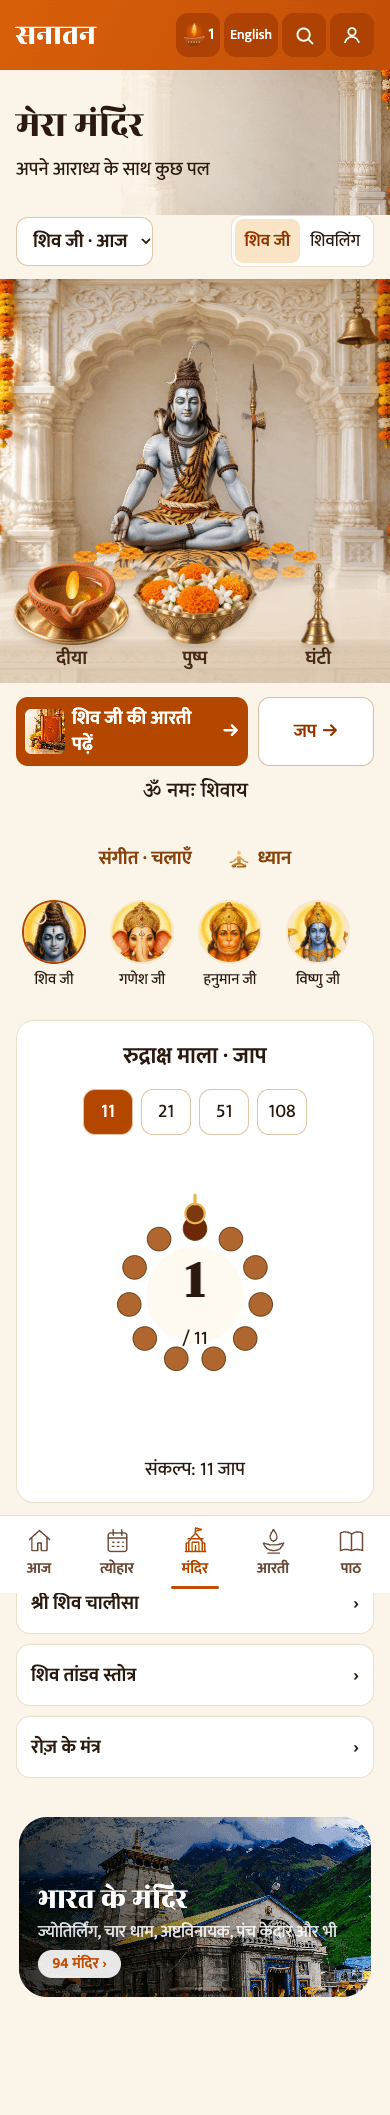
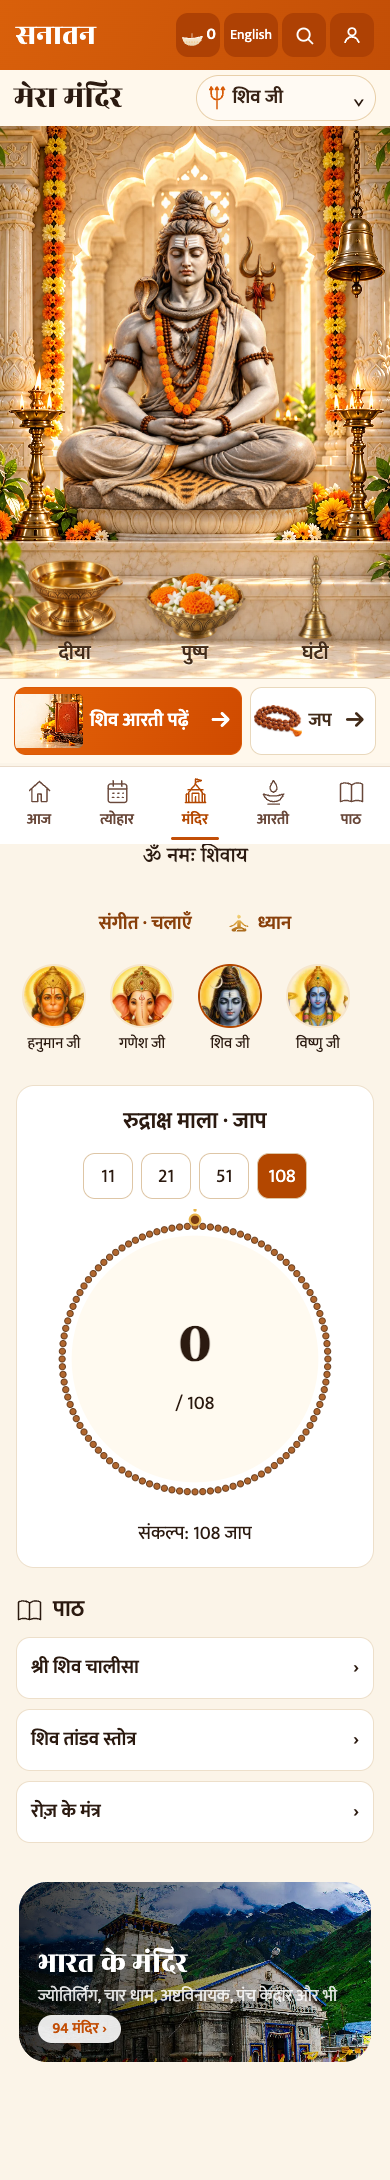
Refresh Mandir review screenshots after mockup correction

diff --git a/docs/redesign/pr-3/README.md b/docs/redesign/pr-3/README.md
@@ -13,3 +13,7 @@ Mandir follows option 5 with an ivory marble shrine and integrated, large labell
 - Religious content files and existing storage keys are unchanged. Existing missing weekday sets and Shivling placeholder remain listed in HANDOVER.md.
 
 Depends on PRs 1 and 2, in that order. Review into `app-source`; no deployment or hosting changes.
+
+## Mandir visual correction, 27 October
+
+The initial Mandir implementation did not match the selected option 5 closely enough. It has been corrected to use the compact title / picker row, uninterrupted sunlit lattice shrine, seated Shiva daily set, integrated offering ledge and photo-backed Aarti / Jap actions. Original deity data is preserved; only an optional Mandir image field is added. The previous attempt, chosen reference and corrected app are shown together in `../mandir-correction/comparison.png`. Stage-3 TypeScript, 11 tests and production build were re-run successfully after the correction.
